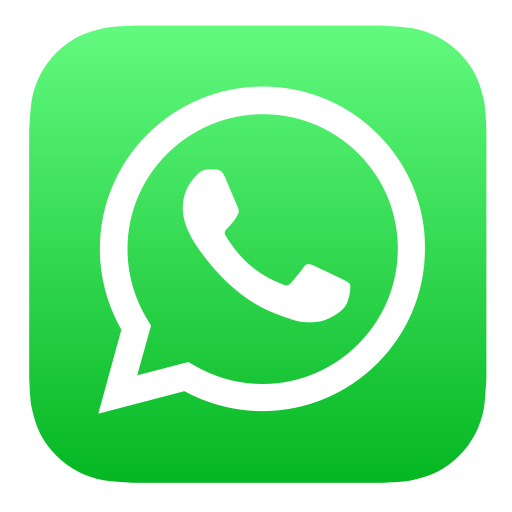
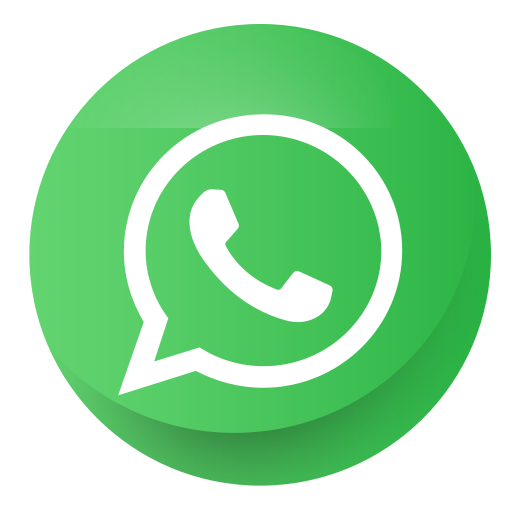
feat: avances en el panel de administracion

diff --git a/src/components/tours/BoatTourCard.tsx b/src/components/tours/BoatTourCard.tsx
@@ -21,7 +21,7 @@ export function BoatTourCard({ boat, tour, isSelected, onSelect }: BoatTourCardP
 
   return (
     <>
-      <article className={`group relative h-full overflow-hidden rounded-2xl border border-white/10 bg-white/[0.06] shadow-soft backdrop-blur-xl transition duration-300 hover:-translate-y-1 hover:border-ocean-400/70 ${isSelected ? 'border-ocean-400 bg-ocean-500/15 ring-4 ring-ocean-500/10' : ''}`}>
+      <article className={`group relative flex h-full flex-col overflow-hidden rounded-2xl border border-white/10 bg-white/[0.06] shadow-soft backdrop-blur-xl transition duration-300 hover:-translate-y-1 hover:border-ocean-400/70 ${isSelected ? 'border-ocean-400 bg-ocean-500/15 ring-4 ring-ocean-500/10' : ''}`}>
         <div className="relative overflow-hidden">
           <img
             src={tour.image}
@@ -41,31 +41,31 @@ export function BoatTourCard({ boat, tour, isSelected, onSelect }: BoatTourCardP
           ) : null}
         </div>
 
-        <div className="p-5">
-          <h3 className="text-2xl font-extrabold text-white">{tour.name}</h3>
+        <div className="flex flex-1 flex-col p-5">
+          <h3 className="text-balance text-2xl font-extrabold leading-tight text-white">{tour.name}</h3>
           <p className="mt-2 text-sm font-bold text-ocean-400">Aboard {boat.name}</p>
           <div className="mt-4 grid gap-2 text-sm font-semibold text-ocean-200">
-            <span className="flex items-center gap-2">
+            <span className="grid grid-cols-[1rem_minmax(0,1fr)] items-center gap-2">
               <Clock size={16} className="text-ocean-400" />
               {tour.duration} Hours
             </span>
-            <span className="flex items-center gap-2">
+            <span className="grid grid-cols-[1rem_minmax(0,1fr)] items-center gap-2">
               <Users size={16} className="text-ocean-400" />
-              {includedGuests} guests included - max {effectiveMaxGuests}
+              <span>{includedGuests} guests included - max {effectiveMaxGuests}</span>
             </span>
           </div>
 
-          <div className="mt-6 flex items-end justify-between gap-4">
-            <div>
+          <div className="mt-auto flex flex-col gap-4 pt-6 min-[420px]:flex-row min-[420px]:items-end min-[420px]:justify-between">
+            <div className="min-w-0">
               <p className="text-xs font-bold uppercase tracking-[0.12em] text-ocean-300">From</p>
-              <p className="text-2xl font-extrabold text-ocean-400">{tour.customQuote ? 'Custom quote' : formatCurrency(tour.basePrice)}</p>
+              <p className="text-2xl font-extrabold leading-tight text-ocean-400">{tour.customQuote ? 'Custom quote' : formatCurrency(tour.basePrice)}</p>
             </div>
-            <div className="flex flex-col gap-2 sm:items-end">
-              <Button type="button" variant="secondary" className="min-h-10 px-4" onClick={() => setIsModalOpen(true)}>
+            <div className="grid w-full gap-2 min-[420px]:w-auto min-[420px]:justify-items-end">
+              <Button type="button" variant="secondary" className="min-h-10 w-full px-4 min-[420px]:w-auto" onClick={() => setIsModalOpen(true)}>
                 <Info size={16} />
                 Quick View
               </Button>
-              <Button type="button" onClick={() => onSelect(tour)}>
+              <Button type="button" className="w-full min-[420px]:w-auto" onClick={() => onSelect(tour)}>
                 Select Tour
               </Button>
             </div>

diff --git a/src/components/home/AboutPreview.tsx b/src/components/home/AboutPreview.tsx
@@ -39,7 +39,7 @@ export function AboutPreview() {
       <Container>
         <div className="grid gap-8 lg:grid-cols-[minmax(0,1fr)_420px] lg:items-center">
           <div>
-            <p className="text-sm font-bold uppercase tracking-[0.14em] text-ocean-200">
+            <p className="text-sm font-bold uppercase tracking-[0.14em] text-ocean-400">
               {language === 'es' ? 'Sobre nosotros' : 'About us'}
             </p>
             <h2 className="mt-3 max-w-3xl font-display text-4xl font-extrabold leading-tight sm:text-5xl">
@@ -61,20 +61,22 @@ export function AboutPreview() {
               </p>
             </div>
 
-            <div className="mt-7 flex justify-start">
+          </div>
+
+          <div>
+            <div className="rounded-[2rem] border border-white/10 bg-white/[0.06] p-3 shadow-lifted backdrop-blur-xl">
+              <img
+                className="aspect-[4/3] w-full rounded-[1.4rem] object-cover"
+                src="/images/placeholder-image.jpg"
+                alt={language === 'es' ? 'Bote privado en agua tropical' : 'Private boat on tropical water'}
+                loading="lazy"
+              />
+            </div>
+            <div className="mt-8 flex justify-center">
               <Button variant="secondary" to="/nosotros">
                 {language === 'es' ? 'Conocer la empresa' : 'Meet the company'}
               </Button>
             </div>
-          </div>
-
-          <div className="rounded-[2rem] border border-white/10 bg-white/[0.06] p-3 shadow-lifted backdrop-blur-xl">
-            <img
-              className="aspect-[4/3] w-full rounded-[1.4rem] object-cover"
-              src="/images/placeholder-image.jpg"
-              alt={language === 'es' ? 'Bote privado en agua tropical' : 'Private boat on tropical water'}
-              loading="lazy"
-            />
           </div>
         </div>
 

diff --git a/src/components/home/Hero.tsx b/src/components/home/Hero.tsx
@@ -36,13 +36,13 @@ export function Hero() {
       </div>
 
       <a
-        className="focus-ring pressable group fixed bottom-5 right-5 z-[70] grid h-14 w-14 place-items-center rounded-[1.1rem] shadow-lifted transition duration-300 ease-out hover:-translate-y-1 hover:scale-105 hover:shadow-[0_18px_44px_rgba(37,211,102,0.42)] sm:bottom-6 sm:right-6"
+        className="focus-ring group fixed bottom-5 right-5 z-[70] grid h-14 w-14 place-items-center rounded-full transition-transform duration-200 ease-out hover:scale-110 active:scale-95 sm:bottom-6 sm:right-6"
         href={`https://wa.me/${WHATSAPP_NUMBER}`}
         target="_blank"
         rel="noreferrer"
         aria-label="WhatsApp"
       >
-        <img className="h-full w-full object-contain transition duration-300 ease-out group-hover:brightness-110 group-hover:saturate-125" src="/images/whatsapp.png" alt="" aria-hidden="true" />
+        <img className="h-full w-full object-contain transition duration-200 ease-out group-hover:brightness-110 group-hover:drop-shadow-[0_10px_18px_rgba(37,211,102,0.34)]" src="/images/whatsapp.png" alt="" aria-hidden="true" />
       </a>
 
       <Container className="relative grid min-h-[100dvh] place-items-center px-6 pb-16 pt-28 text-center">
